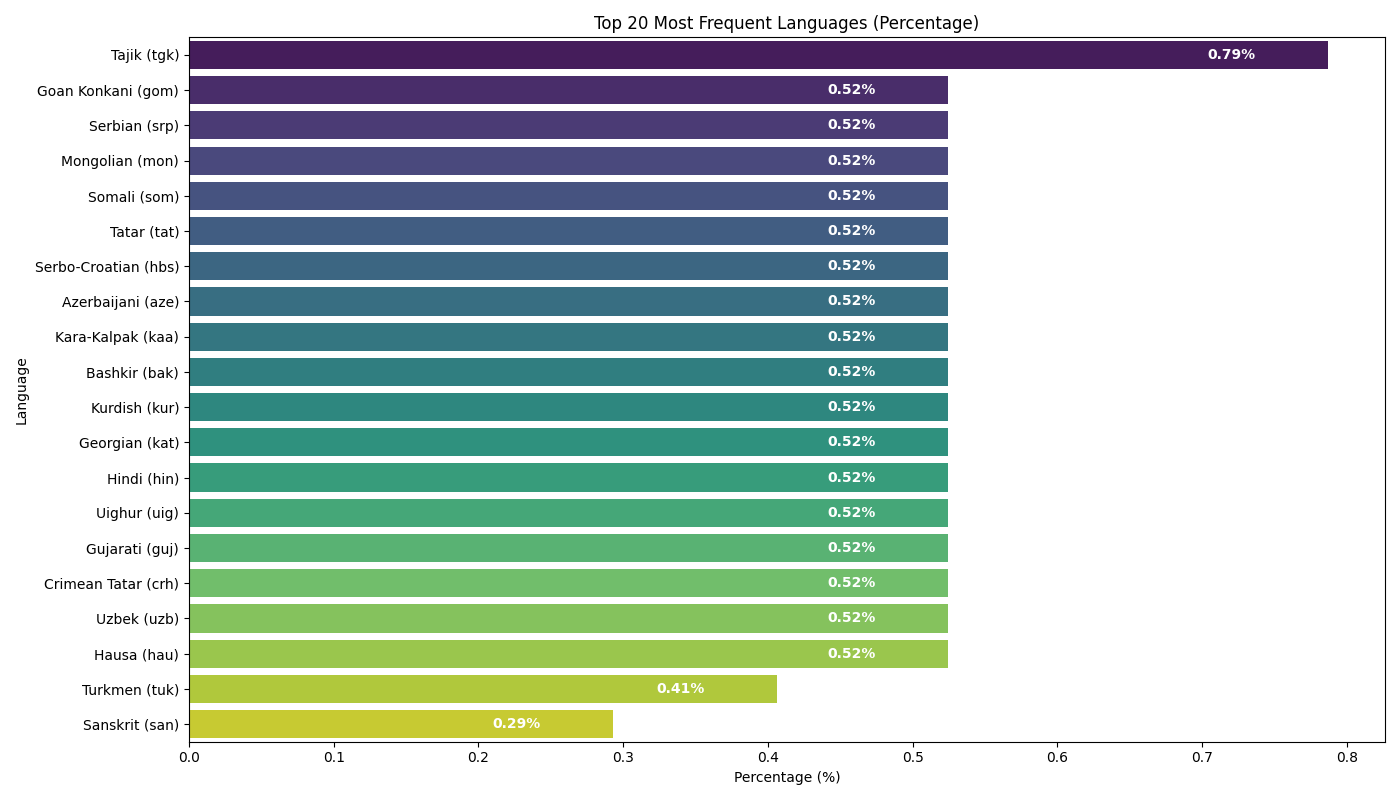
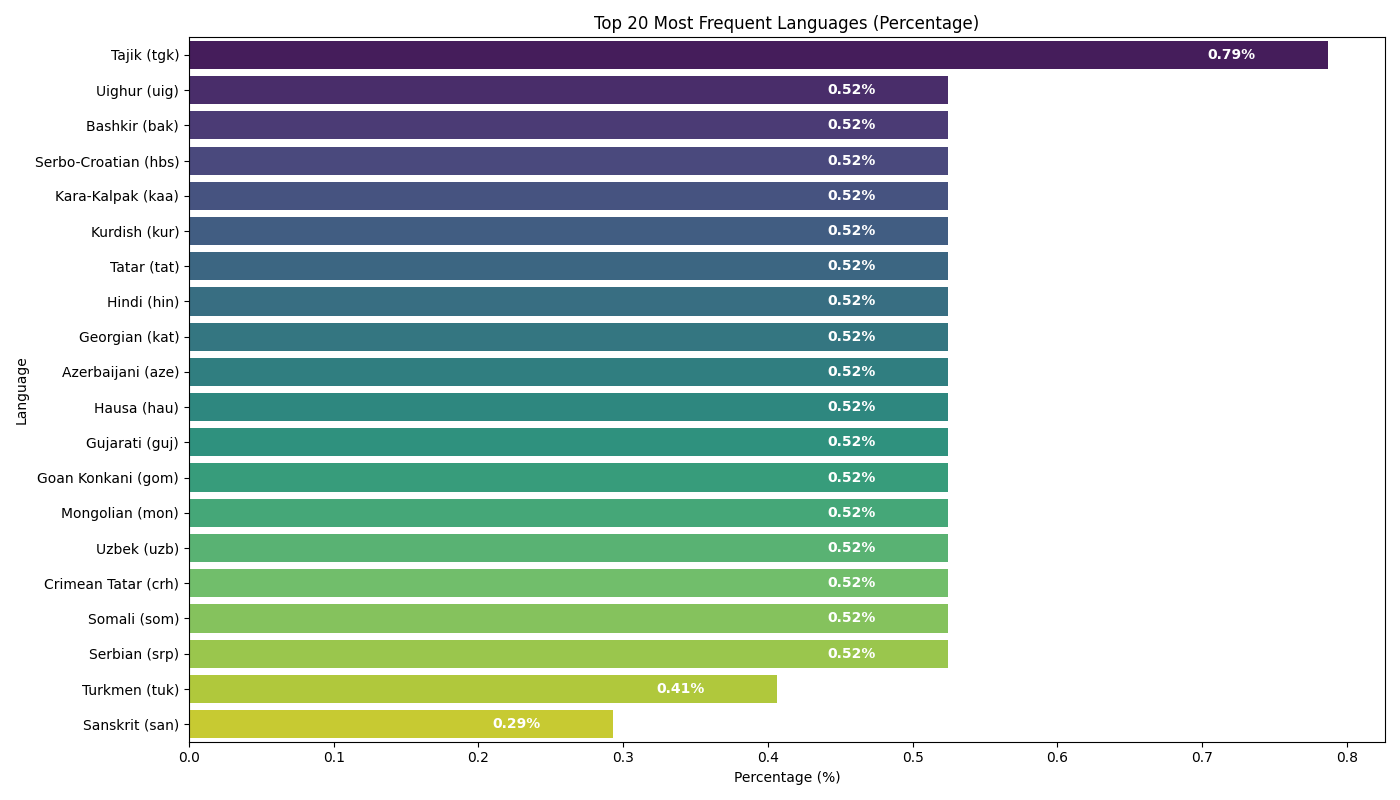
organization

diff --git a/EDA/data_analysis.py b/EDA/data_analysis.py
@@ -1,39 +1,21 @@
 import pandas as pd
 import matplotlib.pyplot as plt
 import numpy as np
+import seaborn as sns
+import pycountry
+import os
+import io
 
 ###############################################################################
-# 1) Map language codes to real names (including newly requested codes)
+# 1) Function to get language name from ISO 639-3 code
 ###############################################################################
-language_map = {
-    "hau": "Hausa",
-    "nob": "Norwegian Bokmål",
-    "wln": "Walloon",
-    "quh": "Quechua",
-    "scn": "Sicilian",
-    "uzb": "Uzbek",
-    "roh": "Romansh",
-    "ayr": "Aymara",
-    "rmy": "Romani",
-    "ven": "Venda",
-    "epo": "Esperanto",
-    "tgk": "Tajik",
-    "gom": "Goan Konkani",
-    "kat": "Georgian",
-    "kaa": "Karakalpak",
-    "mon": "Mongolian",
-    "hin": "Hindi",
-    "tat": "Tatar",
-    "guj": "Gujarati",
-    "crh": "Crimean Tatar",
-    "som": "Somali",
-    "uig": "Uyghur",
-    "kur": "Kurdish",
-}
 
-def get_language_name(code):
-    """Return a mapped language name if available; otherwise, return the code itself."""
-    return language_map.get(code, code)
+def get_language_name(iso_code):
+    try:
+        language_name = pycountry.languages.get(alpha_3=iso_code).name
+        return f"{language_name} ({iso_code})"
+    except AttributeError:
+        return iso_code
 
 ###############################################################################
 # 2) Load the data
@@ -43,6 +25,29 @@ pred_df  = pd.read_csv("../Assets/Outputs/Submission/submission_file.csv")   # M
 
 train_total = len(train_df)
 test_total  = len(pred_df)
+
+# Capture the output of df.info()
+buffer = io.StringIO()
+train_df.info(buf=buffer)
+info_str = buffer.getvalue()
+
+# Save dataset information to a text file
+with open("../Assets/Outputs/EDA/dataset_info.txt", "w") as f:
+    f.write(info_str)
+    f.write("\n")
+    f.write("Missing values in each column:\n")
+    f.write(str(train_df.isnull().sum()))
+    f.write("\n\n")
+    f.write("Number of duplicated rows:\n")
+    f.write(str(train_df.duplicated().sum()))
+    f.write("\n\n")
+    f.write("Number of unique languages:\n")
+    f.write(str(train_df["Label"].nunique()))
+
+# Print missing values, duplicated rows, and unique languages
+print("Missing values in each column:",train_df.isnull().sum())
+print("Number of duplicated rows:", train_df.duplicated().sum())
+print("Number of unique languages:",train_df["Label"].nunique())
 
 ###############################################################################
 # 3) Training distribution (Top 10) by frequency
@@ -120,7 +125,35 @@ plt.title("Comparison of Language Distribution (Union of Top 10)")
 plt.legend(loc="lower right")
 plt.gca().invert_yaxis()
 plt.tight_layout()
-plt.savefig("train_vs_test_distribution_top10_percent.png", dpi=300)
+plt.savefig("../Assets/Outputs/EDA/train_vs_test_distribution_top10_percent.png", dpi=300)
 plt.close()
 
-print("\nAnalysis completed. All plots have been saved as PNG files.")
+###############################################################################
+# 6) Train data distribution (Top 20) by frequency
+###############################################################################
+
+# Convert ISO codes to "Language (Code)" format
+train_df["Language Name"] = train_df["Label"].astype(str).apply(get_language_name)
+
+# Count occurrences and calculate percentages
+label_counts = train_df["Language Name"].value_counts(normalize=True) * 100
+
+# Select top 20 languages
+top_labels = label_counts.head(20)
+
+# Create a horizontal bar chart
+plt.figure(figsize=(14, 8))  
+ax = sns.barplot(y=top_labels.index, x=top_labels.values, hue=top_labels.index, palette="viridis", legend=False)
+
+plt.xlabel("Percentage (%)")
+plt.ylabel("Language")
+plt.title("Top 20 Most Frequent Languages (Percentage)")
+
+# Add percentage labels inside bars
+for i, value in enumerate(top_labels.values):
+    ax.text(value - 0.05, i, f"{value:.2f}%", va="center", ha="right", fontsize=10, color="white", fontweight="bold")
+
+# Adjust layout to prevent cut-off
+plt.tight_layout()
+plt.savefig("../Assets/Outputs/EDA/top_20_languages.png")
+plt.show()

diff --git a/classifier_Tfidf_LR.py b/classifier_Tfidf_LR.py
@@ -192,20 +192,13 @@ class LanguageClassifierTFIDF:
         logger.info(f"Submission file zipped to {zip_file_path}")
 
     @staticmethod
-    def remove_duplicates(data: pd.DataFrame) -> pd.DataFrame:
-        """
-        Remove duplicate rows from the dataset.
-
-        Args:
-            data (pd.DataFrame): The dataset to clean.
-
-        Returns:
-            pd.DataFrame: The cleaned dataset.
-        """
-        logger.info("Removing duplicate rows...")
+    def handle_missing_labels(data: pd.DataFrame) -> pd.DataFrame:
+        """Removes rows with missing labels from the dataset."""
+        logger.info("Removing rows with missing labels...")
         initial_row_count = data.shape[0]
-        data = data.drop_duplicates()
-        logger.info(f"Removed {initial_row_count - data.shape[0]} duplicate rows.")
+        data = data.dropna(subset=['Label'])
+        final_row_count = data.shape[0]
+        logger.info(f"Removed {initial_row_count - final_row_count} rows with missing labels.")
         return data
 
 
@@ -225,7 +218,7 @@ def main():
         if not args.train_dataset:
             raise ValueError("Please provide a training dataset path with --train_dataset when training the model.")
         data = pd.read_csv(args.train_dataset)
-        data = classifier.remove_duplicates(data)
+        data = classifier.handle_missing_labels(data)
         X, y = classifier.preprocess_data(data)
         classifier.train(X, y)
 

diff --git a/EDA/word_count_analysis.py b/EDA/word_count_analysis.py
@@ -66,7 +66,7 @@ plt.title("Word Count Distribution: Train vs. Test (in %)")
 plt.legend(loc="lower right")
 plt.gca().invert_yaxis()  # So the first bin appears at the top
 plt.tight_layout()
-plt.savefig("train_vs_test_word_count_bins_percent.png", dpi=300)
+plt.savefig("../Assets/Outputs/EDA/train_vs_test_word_count_bins_percent.png", dpi=300)
 plt.close()
 
 print("\nAnalysis completed. Word count distribution saved as 'train_vs_test_word_count_bins_percent.png'.")

diff --git a/README.md b/README.md
@@ -37,25 +37,25 @@ The main goal of this competition is to build an effective text classifier.
         Replace `<model_script>` with the appropriate script name (e.g., classifier_Tfidf_LR.py, XLM-RoBERTa.py).
     - To generate a submission file using any model:
         ```sh
-        python <model_script>.py --test_dataset Assets/Data/test_submission.csv --submission Assets/Outputs/submission.csv
+        python <model_script>.py --test_dataset Assets/Data/test_without_labels.csv --submission submission.csv
         ```
 
 We are utilizing the [DCE](https://dce.pages.centralesupelec.fr/) GPU provided by CentraleSupélec for training our models.
 
 ## Data
 
-The dataset used in this competition consists of three columns: `Usage`, `Text`, and `Label`. There are 390 languages in the training data, with the top 20 being:
+The dataset used in this competition consists of three columns: `Usage`, `Text`, and `Label`. There are 389 languages in the training data, with the top 20 being:
 
 <p align="center">
   <img src="Assets/Outputs/EDA/top_20_languages.png" alt="Word cloud" width="700">
 </p>
 
-Comparative analysis of the word count distribution between the training and test datasets:
+## Comparative Analysis Between the Training and Test Datasets
 
 <p align="center">
-  <img src="Assets/Outputs/EDA/train_vs_test_word_count_bins_percent.png" alt="Word cloud" width="700">
+  <img src="Assets/Outputs/EDA/train_vs_test_distribution_top10_percent.png" alt="Top 10 Language Distribution" width="48%">
+  <img src="Assets/Outputs/EDA/train_vs_test_word_count_bins_percent.png" alt="Word Count Bins Distribution" width="48%">
 </p>
-
 
 ## Results
 
